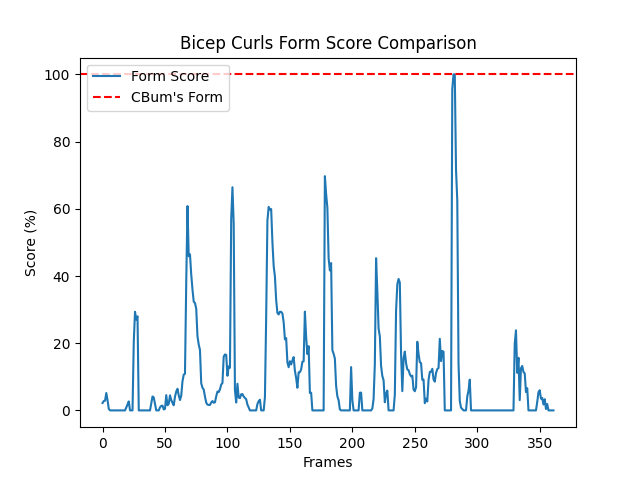
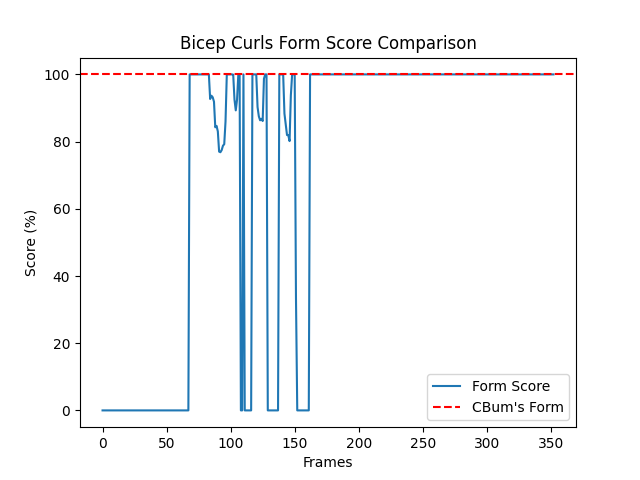
Displaying Form chart after ending training session

diff --git a/app.py b/app.py
@@ -154,9 +154,15 @@ elif page == "🏋 Cbuminator":
         if score is not None and calories is not None:
             st.success(f"Form Score: {score}%")
             st.success(f"Calories Burned: {calories} kcal")
+
+            chart_path = "./database/form_score_chart.png"
+            if os.path.exists(chart_path):
+                st.image(chart_path, caption="Your Form Score Over Time", use_container_width=True)
+            else:
+                st.warning("Form score chart not found.")
         else:
             st.error("Could not evaluate performance")
-    st_lottie(cbuminator_animation, height=300, key="cbum")
+
 
 
 st.markdown("""
